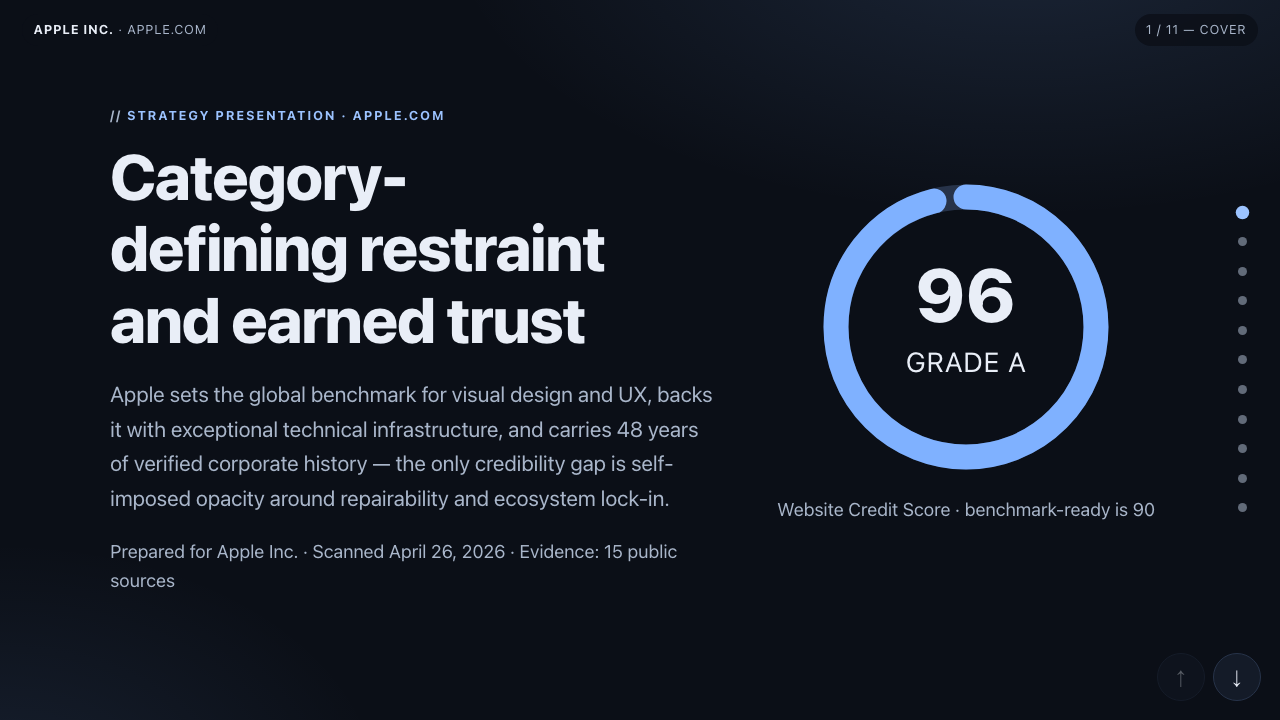
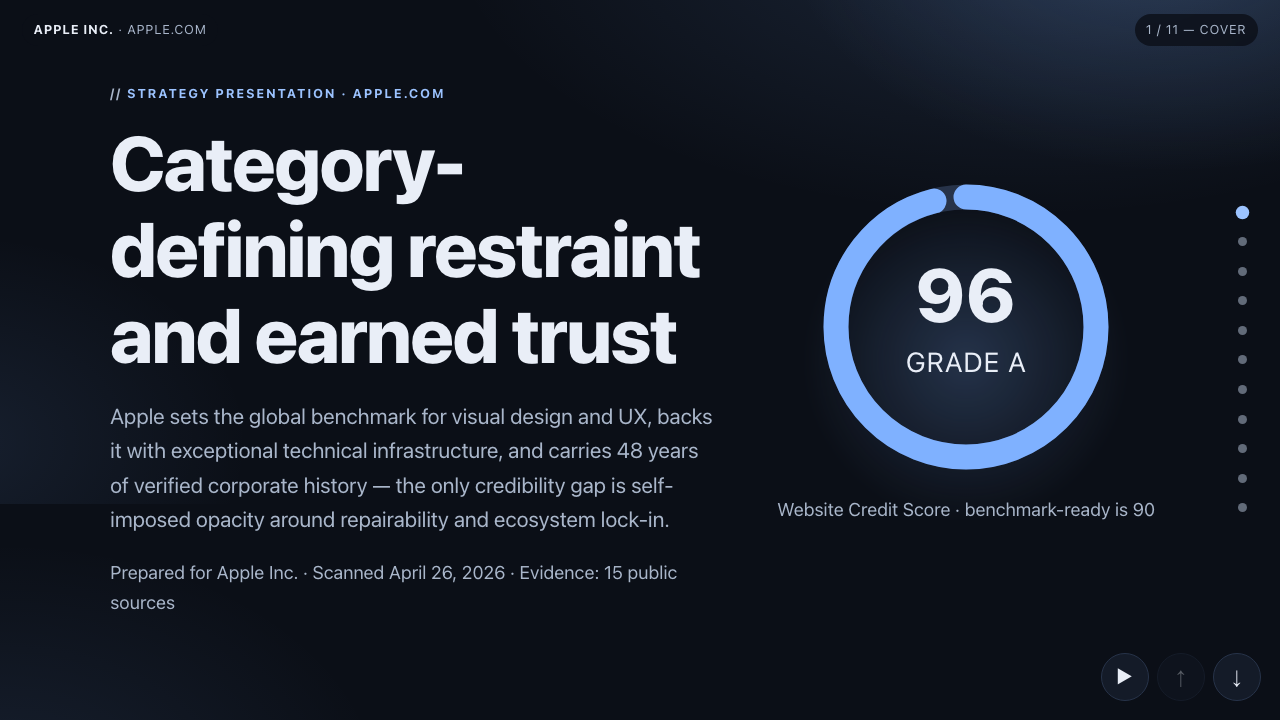
Design Mind: research-grounded redesign of the landing hero + all 6 deck templates
Adds .claude/skills/design-mind/SKILL.md — a persistent, growing design
reference system: research notes (Pitch.com's depth-of-field product collage,
Linear.app's confident restraint), distilled SP design tokens, a pre-flight
checklist, and a process for adding new references over time.

Applies it now:
- Landing hero: real product presence (our own 6 deck covers, blurred/scattered
  for depth-of-field, one sharp anchor screenshot) instead of a text-only void;
  a gradient-mesh background instead of flat color; bigger, more confident type
  scale; subtle independent drift motion (reduced-motion safe).
- Fixed a real bug found along the way: render.ts injected theme CSS BEFORE
  base CSS, so any base rule of equal specificity silently overrode themes'
  own customizations (e.g. Editorial's intentionally larger h1 was being
  nullified). Swapped the order so themes correctly override base again.
- Deck engine base (propagates to all 6 templates at once): bigger h1/h2 scale,
  a soft ambient glow behind every cover's score ring and around the cover
  slide itself (via ::before, never fighting a theme's own background), and a
  restrained ambient shadow on cards/flags/crew/build-sheet items — kept
  deliberately subtle in data-dense zones per the Design Mind "restraint"
  principle.
- Regenerated the /templates/*.png gallery thumbnails from the new covers so
  they're not showing the stale pre-redesign look.
[…]

diff --git a/apps/studio/src/lib/deck/base-css.ts b/apps/studio/src/lib/deck/base-css.ts
@@ -127,8 +127,8 @@ h1, h2 {
   font-family: var(--font-display); color: var(--text);
   line-height: 1.12; margin: 0 0 1rem; text-wrap: balance;
 }
-h1 { font-size: clamp(2.1rem, 1.4rem + 3.4vw, 4rem); }
-h2 { font-size: clamp(1.7rem, 1.2rem + 2.2vw, 2.8rem); }
+h1 { font-size: clamp(2.3rem, 1.3rem + 4.4vw, 4.8rem); }
+h2 { font-size: clamp(1.8rem, 1.2rem + 2.6vw, 3.1rem); }
 h3 { font-family: var(--font-display); font-size: 1.15rem; margin: 0 0 0.4rem; }
 p.lede { font-size: clamp(1.1rem, 1rem + 0.6vw, 1.35rem); color: var(--muted); max-width: 56ch; }
 .muted { color: var(--muted); }
@@ -136,14 +136,38 @@ p.lede { font-size: clamp(1.1rem, 1rem + 0.6vw, 1.35rem); color: var(--muted); m
 .card {
   background: var(--surface); border: 1px solid var(--line);
   border-radius: var(--radius); padding: 1.4rem;
+  /* Restrained ambient lift, not a "floating card" effect — a theme can
+     still override box-shadow directly if it wants a different treatment. */
+  box-shadow: 0 1px 2px color-mix(in srgb, var(--line) 70%, transparent),
+              0 8px 20px -16px color-mix(in srgb, var(--text) 30%, transparent);
 }
 .grid-2 { display: grid; gap: 1rem; grid-template-columns: repeat(auto-fit, minmax(min(340px, 100%), 1fr)); }
 .grid-3 { display: grid; gap: 1rem; grid-template-columns: repeat(auto-fit, minmax(min(280px, 100%), 1fr)); }
 
-/* ── Cover ── */
+/* ── Cover ──
+   Depth over flatness (Design Mind): an ambient glow layered in via ::before
+   so it never fights a theme's own #s-cover background declaration — themes
+   that already set their own richer cover background (signal, gallery) get
+   this glow blended underneath; themes that don't (summit, editorial,
+   monospace, beacon) get it as their only cover depth. Either way, no
+   template ships a flat void behind its opening slide. */
+#s-cover::before {
+  content: ""; position: absolute; inset: -15% -8% auto -8%; height: 85%;
+  z-index: 0; pointer-events: none;
+  background:
+    radial-gradient(40rem 24rem at 86% 8%, color-mix(in srgb, var(--accent) 20%, transparent), transparent 60%),
+    radial-gradient(28rem 20rem at 4% 90%, color-mix(in srgb, var(--accent) 10%, transparent), transparent 65%);
+}
+#s-cover .slide-inner { position: relative; z-index: 1; }
+
 .cover-layout { display: grid; gap: 2.5rem; grid-template-columns: 1.2fr 0.8fr; align-items: center; }
 @media (max-width: 820px) { .cover-layout { grid-template-columns: 1fr; } }
-.score-ring-wrap { display: grid; place-items: center; }
+.score-ring-wrap { display: grid; place-items: center; position: relative; }
+.score-ring-wrap::before {
+  content: ""; position: absolute; z-index: -1; inset: 8%;
+  background: radial-gradient(circle, color-mix(in srgb, var(--accent) 22%, transparent), transparent 70%);
+  filter: blur(6px);
+}
 .score-ring { width: min(300px, 70vw); height: auto; }
 .score-ring .ring-track { stroke: var(--line); }
 .score-ring .ring-value { stroke: var(--accent); transition: stroke-dashoffset 1.2s cubic-bezier(0.22, 1, 0.36, 1); }
@@ -168,7 +192,12 @@ html.js .slide:not(.in) .dim-bar > span { transform: scaleX(0); }
 
 /* ── Flags ── */
 .flag-list { list-style: none; margin: 0; padding: 0; display: grid; gap: 0.9rem; }
-.flag-list li { background: var(--surface); border: 1px solid var(--line); border-left: 5px solid var(--good); border-radius: var(--radius); padding: 1rem 1.2rem; }
+.flag-list li {
+  background: var(--surface); border: 1px solid var(--line); border-left: 5px solid var(--good);
+  border-radius: var(--radius); padding: 1rem 1.2rem;
+  box-shadow: 0 1px 2px color-mix(in srgb, var(--line) 70%, transparent),
+              0 8px 20px -16px color-mix(in srgb, var(--text) 30%, transparent);
+}
 .flag-list.is-risks li { border-left-color: var(--bad); }
 .flag-list li .sev {
   display: inline-block; font-size: 0.72rem; font-weight: 800; letter-spacing: 0.08em;
@@ -191,7 +220,11 @@ html.js .slide:not(.in) .dim-bar > span { transform: scaleX(0); }
 
 /* ── Crew ── */
 .crew-list { list-style: none; margin: 0; padding: 0; display: grid; gap: 0.7rem; grid-template-columns: repeat(auto-fit, minmax(min(300px, 100%), 1fr)); }
-.crew-list li { background: var(--surface); border: 1px solid var(--line); border-radius: var(--radius); padding: 0.9rem 1.1rem; }
+.crew-list li {
+  background: var(--surface); border: 1px solid var(--line); border-radius: var(--radius); padding: 0.9rem 1.1rem;
+  box-shadow: 0 1px 2px color-mix(in srgb, var(--line) 70%, transparent),
+              0 8px 20px -16px color-mix(in srgb, var(--text) 30%, transparent);
+}
 .crew-list .crew-name { font-weight: 700; }
 
 /* ── Build sheet ── */
@@ -203,6 +236,8 @@ html.js .slide:not(.in) .dim-bar > span { transform: scaleX(0); }
   display: grid; grid-template-columns: auto 1fr auto; gap: 0.4rem 0.9rem; align-items: start;
   background: var(--surface); border: 1px solid var(--line); border-radius: var(--radius);
   padding: 0.85rem 1.05rem; cursor: pointer;
+  box-shadow: 0 1px 2px color-mix(in srgb, var(--line) 70%, transparent),
+              0 8px 20px -16px color-mix(in srgb, var(--text) 30%, transparent);
 }
 .bs-item:has(input:checked) { border-color: var(--accent-strong); box-shadow: inset 4px 0 0 var(--accent-strong); }
 .bs-item input { width: 1.35rem; height: 1.35rem; margin-top: 0.2rem; accent-color: var(--accent-strong); }

diff --git a/apps/studio/src/app/home/home.css b/apps/studio/src/app/home/home.css
@@ -92,8 +92,8 @@
   font-family: Fraunces, "Iowan Old Style", Georgia, serif;
   font-weight: 500; line-height: 1.12; margin: 0 0 1rem; text-wrap: balance;
 }
-.lp h1 { font-size: clamp(2.3rem, 1.4rem + 4vw, 4.2rem); }
-.lp h2 { font-size: clamp(1.7rem, 1.3rem + 1.8vw, 2.6rem); }
+.lp h1 { font-size: clamp(2.4rem, 1.5rem + 3.6vw, 4.6rem); line-height: 1.06; }
+.lp h2 { font-size: clamp(1.8rem, 1.3rem + 2.1vw, 2.9rem); }
 .lp h3 { font-size: 1.12rem; margin: 0 0 0.4rem; }
 .lp-sub { font-size: clamp(1.05rem, 1rem + 0.5vw, 1.3rem); color: var(--lp-muted); max-width: 58ch; }
 .lp-muted { color: var(--lp-muted); }
@@ -102,11 +102,94 @@
 /* ── Sections ── */
 .lp-section { padding: clamp(3rem, 8vw, 5.5rem) 0; }
 .lp-section + .lp-section { border-top: 1px solid var(--lp-line); }
-.lp-hero { padding: clamp(3rem, 9vw, 6rem) 0 clamp(2.5rem, 6vw, 4rem); }
+
+/* ── Hero ──
+   Depth over flatness (Design Mind): a soft gradient mesh behind the whole
+   section, and — the highest-leverage move — real product presence: our own
+   six deck covers, blurred and scattered for depth-of-field, with one sharp
+   "anchor" screenshot proving the product instead of just describing it. */
+.lp-hero {
+  position: relative;
+  padding: clamp(3rem, 9vw, 6rem) 0 clamp(2.5rem, 6vw, 4rem);
+  overflow: clip;
+}
+.lp-hero::before {
+  content: "";
+  position: absolute; inset: -10% -10% auto -10%; height: 140%;
+  z-index: 0; pointer-events: none;
+  background:
+    radial-gradient(48rem 30rem at 82% 8%, color-mix(in srgb, var(--lp-gold) 16%, transparent), transparent 60%),
+    radial-gradient(38rem 26rem at 6% 82%, color-mix(in srgb, var(--lp-gold) 9%, transparent), transparent 65%);
+}
+.lp-hero-grid {
+  position: relative; z-index: 1;
+  display: grid; gap: clamp(2.5rem, 6vw, 4rem);
+  grid-template-columns: 1fr;
+  align-items: center;
+}
+@media (min-width: 980px) {
+  .lp-hero-grid { grid-template-columns: minmax(0, 1.4fr) minmax(0, 0.85fr); }
+}
+.lp-hero-copy { min-width: 0; }
+
+.lp-hero-art {
+  position: relative; min-height: 320px;
+  display: none;
+}
+@media (min-width: 980px) { .lp-hero-art { display: block; } }
+
+.lp-hero-art-bg {
+  /* `rotate` + `translate` as independent CSS properties (not the `transform`
+     shorthand) so the drift keyframes below can animate `translate` alone
+     without clobbering each image's static rotation. */
+  position: absolute; width: clamp(150px, 20vw, 220px); border-radius: 10px;
+  box-shadow: 0 30px 60px -20px rgba(0, 0, 0, 0.45);
+  filter: blur(2.5px) saturate(0.9); opacity: 0.55;
+  translate: 0 0;
+  will-change: translate;
+}
+.lp-hero-art-1 { top: -4%;  left: 4%;  width: clamp(130px, 17vw, 190px); rotate: -9deg; }
+.lp-hero-art-2 { top: 6%;   right: -2%; rotate: 7deg; }
+.lp-hero-art-3 { bottom: 8%; left: -4%; rotate: 6deg; }
+.lp-hero-art-4 { bottom: -6%; right: 10%; width: clamp(120px, 15vw, 170px); rotate: -6deg; }
+.lp-hero-art-5 { top: 42%;  left: 32%;  width: clamp(110px, 14vw, 150px); rotate: 3deg; opacity: 0.4; }
+
+.lp-hero-art-sharp {
+  position: relative; z-index: 2; margin-inline: auto; width: min(92%, 420px);
+  border-radius: 12px; overflow: hidden; background: var(--lp-surface);
+  border: 1px solid var(--lp-line);
+  box-shadow: 0 50px 90px -30px rgba(0, 0, 0, 0.55);
+}
+.lp-hero-art-sharp img { display: block; width: 100%; height: auto; }
+.lp-hero-chrome {
+  display: flex; gap: 0.4rem; align-items: center;
+  padding: 0.6rem 0.7rem; background: color-mix(in srgb, var(--lp-ink) 6%, var(--lp-surface));
+  border-bottom: 1px solid var(--lp-line);
+}
+.lp-hero-chrome span {
+  width: 9px; height: 9px; border-radius: 50%;
+  background: color-mix(in srgb, var(--lp-ink) 22%, transparent);
+}
+
+@media (prefers-reduced-motion: no-preference) {
+  .lp-hero-art-bg { animation: lp-drift 22s ease-in-out infinite alternate; }
+  .lp-hero-art-2 { animation-duration: 26s; }
+  .lp-hero-art-3 { animation-duration: 19s; }
+  .lp-hero-art-4 { animation-duration: 24s; }
+  .lp-hero-art-5 { animation-duration: 30s; }
+}
+@keyframes lp-drift {
+  from { translate: 0 0; }
+  to   { translate: 0 -14px; }
+}
 
 .lp-card {
   background: var(--lp-surface); border: 1px solid var(--lp-line);
   border-radius: 14px; padding: 1.5rem;
+}
+@media (prefers-reduced-motion: no-preference) {
+  .lp-card { transition: border-color 0.2s ease, transform 0.2s ease, box-shadow 0.2s ease; }
+  .lp-card:hover { border-color: var(--lp-gold); transform: translateY(-2px); box-shadow: 0 16px 32px -20px rgba(0, 0, 0, 0.35); }
 }
 .lp-grid-2 { display: grid; gap: 1.2rem; grid-template-columns: repeat(auto-fit, minmax(min(340px, 100%), 1fr)); }
 .lp-grid-3 { display: grid; gap: 1.2rem; grid-template-columns: repeat(auto-fit, minmax(min(280px, 100%), 1fr)); }

diff --git a/apps/studio/src/app/home/page.tsx b/apps/studio/src/app/home/page.tsx
@@ -67,17 +67,37 @@ export default function LandingPage() {
 
       <main id="main">
         <section className="lp-hero">
-          <div className="lp-wrap">
-            <p className="lp-eyebrow">Pitch decks with receipts</p>
-            <h1>
-              Turn any website into a <span className="lp-gold-i">boardroom-ready</span> pitch deck.
-            </h1>
-            <p className="lp-sub">
-              SP reads the public record — credibility, reputation, design, technical health — and
-              builds an evidence-backed presentation in six polished styles. Every claim sourced.
-              Every chart accessible. Ready in minutes.
-            </p>
-            <DemoWidget />
+          <div className="lp-wrap lp-hero-grid">
+            <div className="lp-hero-copy">
+              <p className="lp-eyebrow">Pitch decks with receipts</p>
+              <h1>
+                Turn any website into a <span className="lp-gold-i">boardroom-ready</span> pitch deck.
+              </h1>
+              <p className="lp-sub">
+                SP reads the public record — credibility, reputation, design, technical health — and
+                builds an evidence-backed presentation in six polished styles. Every claim sourced.
+                Every chart accessible. Ready in minutes.
+              </p>
+              <DemoWidget />
+            </div>
+
+            {/* Decorative — real proof, not illustration: our own six deck covers,
+                scattered and blurred behind one sharp anchor, so the hero shows the
+                product instead of just claiming it. Purely atmospheric; the same
+                thumbnails are presented properly (with alt text) in #templates below. */}
+            <div className="lp-hero-art" aria-hidden="true">
+              <img className="lp-hero-art-bg lp-hero-art-1" src="/templates/summit.png" alt="" />
+              <img className="lp-hero-art-bg lp-hero-art-2" src="/templates/editorial.png" alt="" />
+              <img className="lp-hero-art-bg lp-hero-art-3" src="/templates/gallery.png" alt="" />
+              <img className="lp-hero-art-bg lp-hero-art-4" src="/templates/beacon.png" alt="" />
+              <img className="lp-hero-art-bg lp-hero-art-5" src="/templates/monospace.png" alt="" />
+              <div className="lp-hero-art-sharp">
+                <div className="lp-hero-chrome">
+                  <span /><span /><span />
+                </div>
+                <img src="/templates/signal.png" alt="" />
+              </div>
+            </div>
           </div>
         </section>
 

diff --git a/apps/studio/src/lib/deck/render.ts b/apps/studio/src/lib/deck/render.ts
@@ -41,8 +41,8 @@ export function renderDeck(model: DeckModel): string {
 <title>${esc(title)}</title>
 <script>document.documentElement.classList.add("js");</script>
 <style>
-${themeCss(theme)}
 ${BASE_CSS}
+${themeCss(theme)}
 </style>
 </head>
 <body>

diff --git a/.claude/skills/design-mind/SKILL.md b/.claude/skills/design-mind/SKILL.md
@@ -1,0 +1,62 @@
+---
+name: design-mind
+description: Design taste and reference system for StrategyPresentation (strategypresentation.com) — the landing page, the studio app, and the deck templates. Load this before any visual/UI/CSS work on this repo. Grows over time — every time you research or get shown great design, add it to the Reference Log below.
+---
+
+# Design Mind
+
+Hans's own words, verbatim, on why this exists: *"I'm just genuinely not impressed with the current sp website... build this into our claude code workflow somehow. If I feed it good design as context it should improve and grow."*
+
+This file is that mechanism. It is not a one-time mood board — it's a **living skill**. Every future session that touches SP's visual design should (1) read this first, (2) apply the distilled system below, and (3) when it sees or is shown genuinely great design, add a dated entry to the Reference Log so the next session inherits it too. The value compounds only if this file keeps growing — don't let it go stale.
+
+## The standing diagnosis (2026-07-15)
+
+Before this pass, SP's landing page and deck templates were **competent but generic** — solid Tailwind-template energy: flat single-color backgrounds, a serif/sans pairing with an italic-gold accent word that is an extremely common 2024-2025 SaaS pattern, no imagery or product presence in the hero, no depth, no texture, no motion beyond basic fades. The irony: a *pitch-deck generator's own marketing site* had zero visual proof it makes pitch decks. The deck templates themselves read as data-dashboard slides (a plain donut chart, a two-column split, system fonts) rather than something a founder would be excited to send an investor.
+
+The fix isn't "add more gold gradients." It's the specific, concrete techniques below, extracted from products that are genuinely excellent at this — not generic inspiration, actual mechanics you can implement.
+
+## Reference log
+
+Append new entries here. Each entry: what you looked at, the date, and — most important — **3-5 concrete, implementable mechanics**, not vibes ("looks premium" is not a mechanic; "sharp foreground text over intentionally blurred, scattered real-product thumbnails to fake depth-of-field cheaply in CSS" is).
+
+### Pitch.com (2026-07-15)
+The most directly relevant reference — dedicated presentation software.
+- **Depth-of-field hero collage**: real slide/deck thumbnails (their own actual templates — "Business Model Canvas," "Editorial Template," a proposal deck) scattered around the hero at different scales, blurred (`filter: blur()`, varying amounts) and given a translucent scrim, with the sharp bold headline layered on top. This fakes a camera depth-of-field effect cheaply in CSS and — critically — is instant, wordless proof that the product makes beautiful decks. SP's hero should do the same with its own 6 templates' cover slides.
+- **Crisp anchor screenshot below the fold**: after the blurred collage, one **fully sharp, real, browser-chrome-framed screenshot** of the actual editor UI. Blur for atmosphere, sharpness for proof.
+- **Rich, deep background color** (a saturated deep violet/purple gradient), not flat black or white. Color has actual depth via gradient, not a single flat swatch.
+- **Huge, heavy, geometric-grotesque display type** (not a serif), tight tracking, very large scale — the type carries the page, imagery supports it.
+- **Scattered/collage layout over rigid grid** for the supporting visual elements — feels alive, not templated.
+
+### Linear.app (2026-07-15)
+The opposite move — pure restraint and confidence, worth knowing when *not* to add richness.
+- **Real, unblurred product screenshot immediately below an enormous headline** — no illustration, no abstraction, the actual app UI is the hero visual.
+- **Extreme color restraint**: near-monochrome (pure black canvas, white/gray type), one accent used sparingly (a tiny "New ↗" callout, not a big gradient CTA button).
+- **Type does the work**: huge (~64-80px+), heavy weight, tight line-height, 2-line max headlines. Subhead is short, muted, matter-of-fact — no marketing fluff ("Purpose-built for planning and building products. Designed for the AI era.").
+- **Generous negative space above the product shot** — the restraint itself reads as confidence/premium, not a lack of content.
+- **Lesson for SP**: rich ≠ better everywhere. The hero can be rich (Pitch-style), but data/proof sections (scorecards, credibility sections) should borrow Linear's discipline — real screenshots, minimal chrome, let the content be the decoration.
+
+### (Next entry goes here — date it, name the source, extract mechanics not adjectives.)
+
+## The SP design system (distilled from the above, applied 2026-07-15)
+
+These are the actual tokens/rules implemented in `apps/studio/src/app/home/home.css` (landing) and `apps/studio/src/lib/deck/base-css.ts` + `themes.ts` (the 6 deck templates, which share one base — improving it improves all 6 at once):
+
+- **Type scale**: display headlines use `clamp()` up to ~5.5-6rem, line-height 1.02-1.08, and lean on real weight contrast (600-700) rather than size alone for hierarchy. No more than 2 lines in a hero headline.
+- **Depth over flatness**: every hero-class surface gets a layered background — a gradient mesh or radial glow, *plus* (on the landing page specifically) a blurred collage of the product's own actual output (deck cover-slide thumbnails) — never a single flat color as the entire canvas.
+- **Real product presence, always**: any surface selling "this makes X" must show real X within the first viewport. For SP that means an actual rendered deck slide (screenshot or live iframe), not a text-only claim.
+- **Motion with intent**: reveals stagger (already built), but depth-bearing background elements should have slow, independent parallax/drift — motion that implies dimensionality, not just fade-in-on-scroll. Always gated behind `prefers-reduced-motion`.
+- **Restraint in data-density zones**: scorecards, the build-sheet, and other information-dense slides stay disciplined (Linear-style) — no competing decoration once real data/content is present. Richness belongs in hero/cover moments; clarity belongs everywhere data is being read.
+- **One accent, used with intent**: the gold accent stays, but should read as *precious* (used sparingly, on the one thing that matters per screen) rather than smeared across every heading.
+
+## Pre-flight checklist (run before shipping any visual change to SP)
+
+1. Does the first viewport show **real product**, not just a claim about the product?
+2. Is there **depth** (gradient, blur-layered elements, or genuine imagery) — or is it one flat color again?
+3. Is the type scale **confident** — would this headline look small next to Linear's or Pitch's?
+4. Is motion **present but restrained**, and does it fully disable under reduced-motion?
+5. In data-dense zones, did richness get dialed back down to Linear-level discipline?
+6. Screenshot it at desktop + mobile + dark/light before calling it done — don't ship on vibes, verify with the browser tool.
+
+## How to grow this (do this, don't skip it)
+
+Whenever you (a future session) research design, get shown a reference by Hans, or notice something genuinely excellent while working: open it in the browser tool, actually look at it, and add a dated entry above with **concrete mechanics**, not adjectives. If a redesign pass changes the tokens in "The SP design system" section, update that section too so it stays the single source of truth for what SP currently looks like and why.
